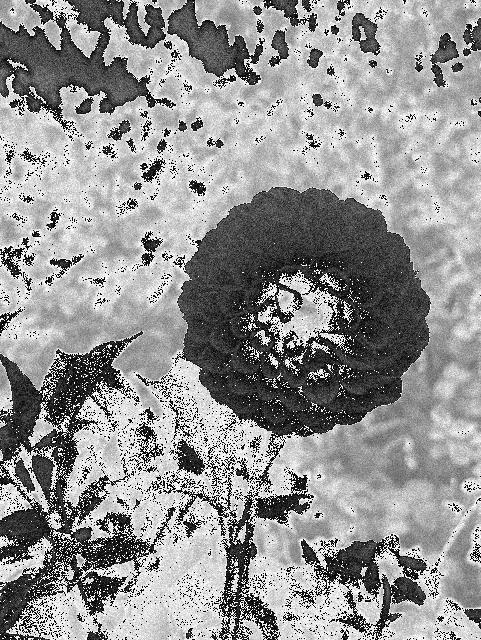
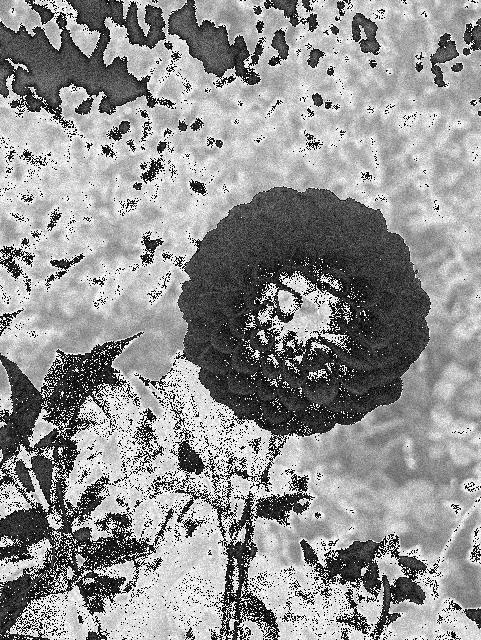
added uniform

diff --git a/add_noise.py b/add_noise.py
@@ -9,7 +9,10 @@ from scipy import ndimage
 
 def gaussian_noise(input_img, mean, var):
     noisy_img = ndimage.gaussian_filter(input=input_img, sigma=var)
-    #noisy_img = cv2.GaussianBlur(input_img, (8,8), 0)
+    return noisy_img
+
+def uniform_noise(input_img):
+    noisy_img = ndimage.uniform_filter(input=input_img)
     return noisy_img
 def salt_and_pepper(input_img):
     noisy_img = np.copy(input_img)
@@ -37,7 +40,7 @@ def shot_noise(input_img):
 img_folder = '/home/zoe/ECE6560_ImageDenoising/Images/'
 all_imgs = glob.glob(img_folder + '*')
 
-noises = ['gaussian', 's&p', 'shot']
+noises = ['gaussian', 's&p', 'shot', 'uniform']
 
 for noise in noises:
     # apply noise to all imgs
@@ -54,6 +57,8 @@ for noise in noises:
                 noisy_img = gaussian_noise(input_img=converted_img, mean=10, var=3)
             elif noise == 's&p':
                 noisy_img = salt_and_pepper(input_img=converted_img)
+            elif noise == 'uniform':
+                noisy_img = uniform_noise(input_img=converted_img)
             else:
                 noisy_img = shot_noise(input_img=converted_img)
 
